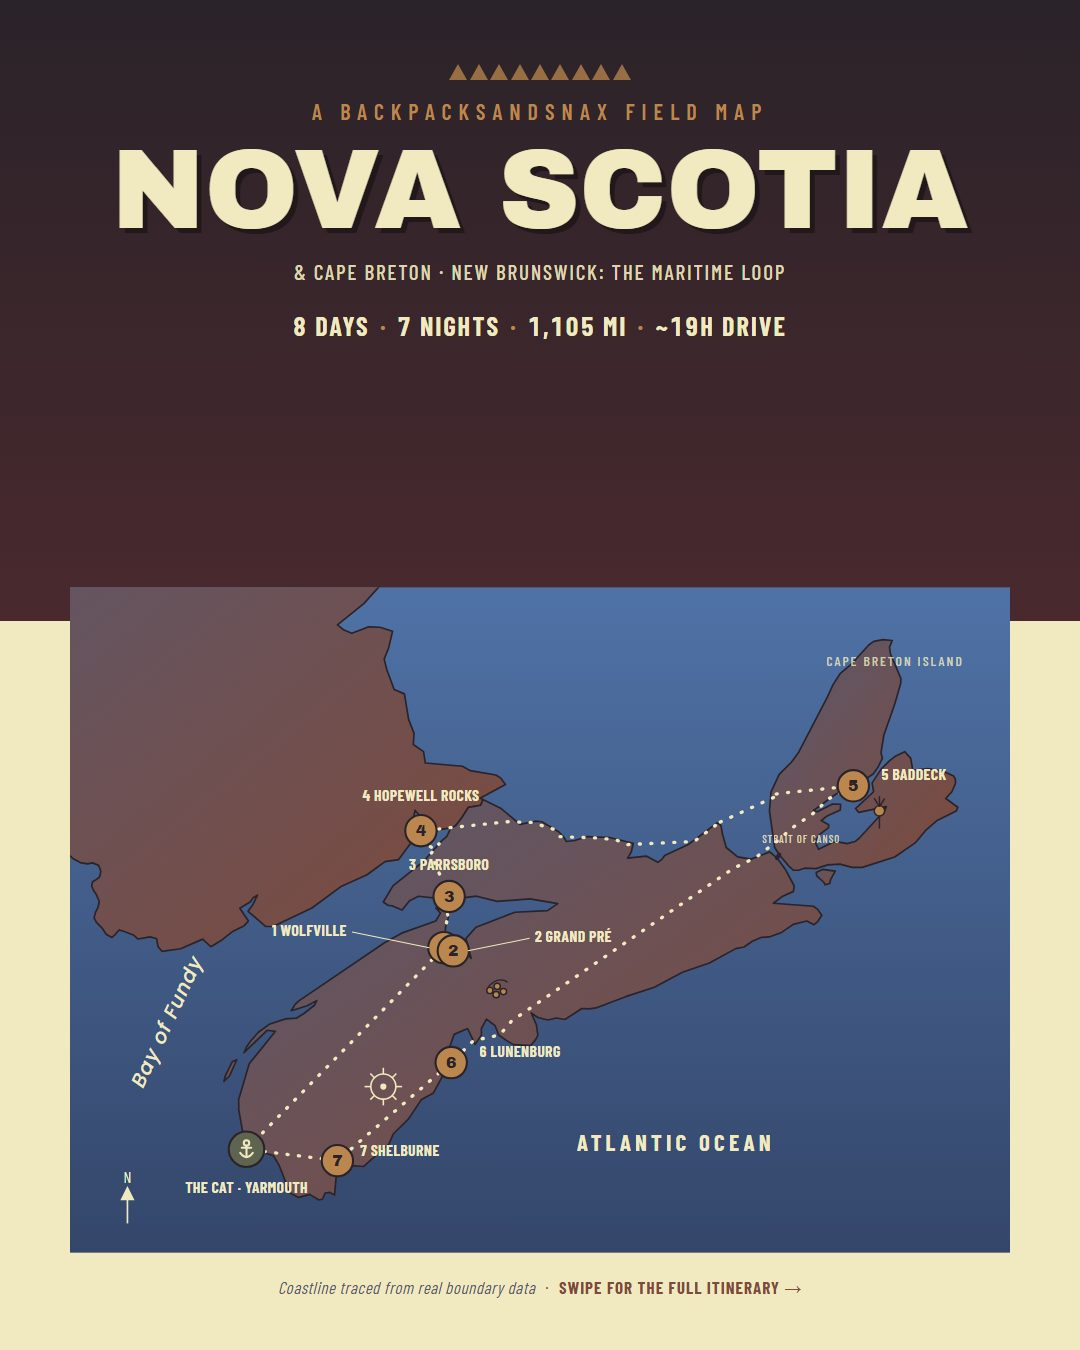
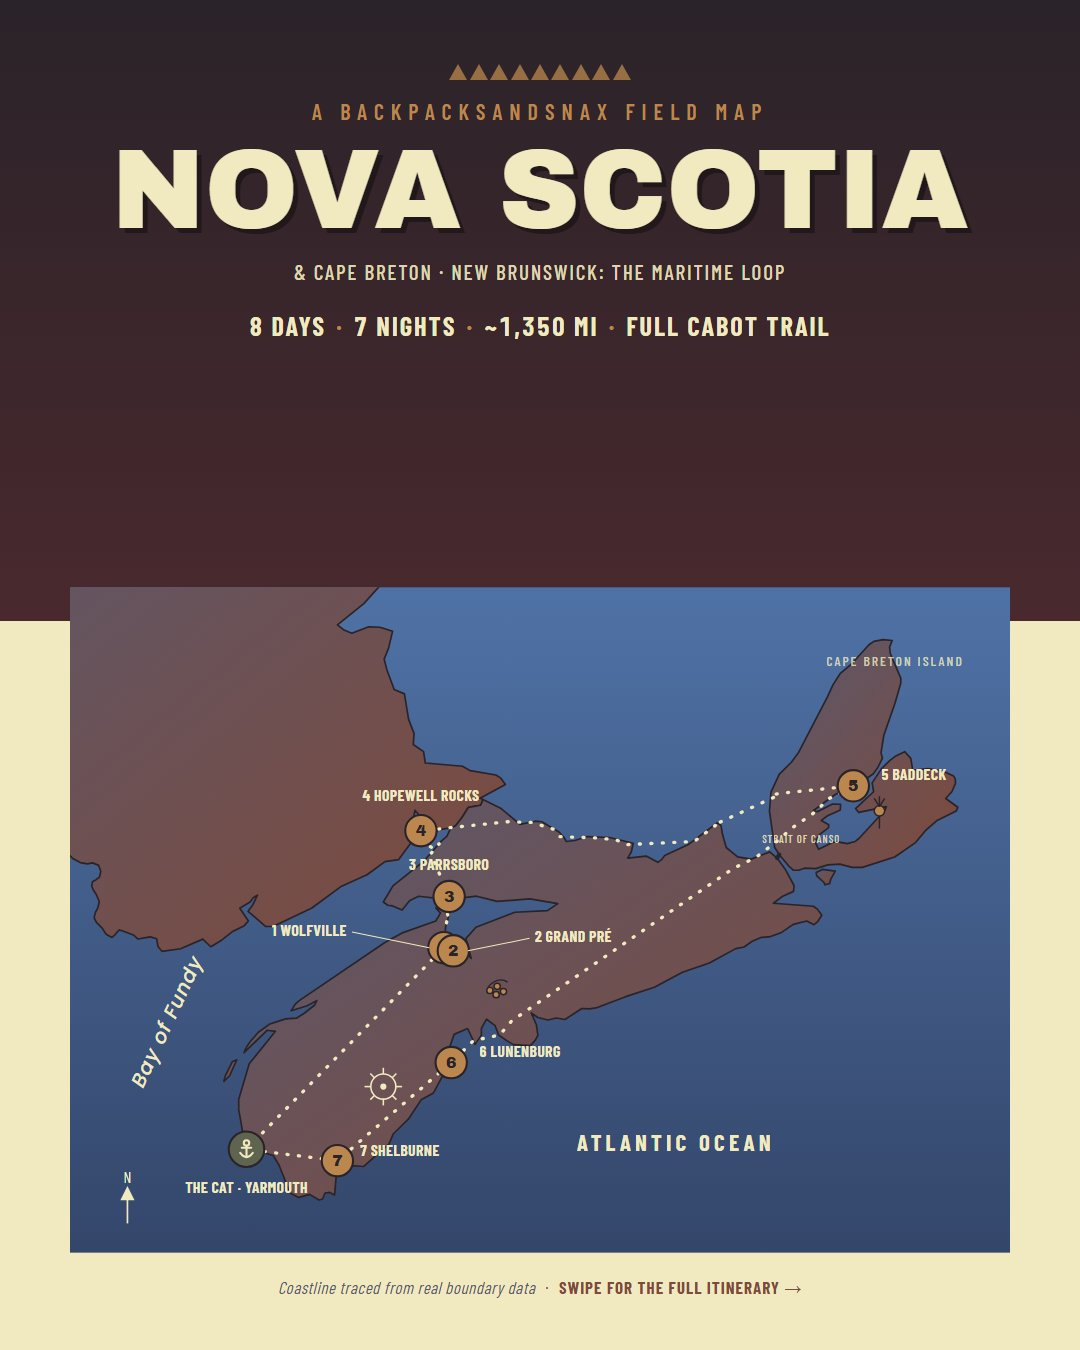
Maritime Loop: gluten-free layer, Evangeline and Blue Beach, offline note
- KML: Gluten-free eats folder (Luckett, The Cable Room), Evangeline Beach
  and Blue Beach photo pins, Peggy's Cove wave photo restored (Ben's call,
  LEG-060), offline note, route through both beaches (~1,350 mi)
- Shop page: Day 2 and Day 5 gluten-free and fossil notes, offline tip,
  new totals; hero field map re-rendered with the new totals
- Tier 2 check: OPSEC pass; legal publish with changes (LEG-063/064/065 applied)

Changed region(s): [[0.2139, 0.2178, 0.7639, 0.2489]]

diff --git a/maritime-loop.html b/maritime-loop.html
@@ -10,7 +10,7 @@
 <link rel="canonical" href="https://backpacksandsnax.shop/maritime-loop.html">
 <meta property="og:type" content="article">
 <meta property="og:title" content="The Maritime Loop: free trip map">
-<meta property="og:description" content="8 days, 7 nights, about 1,340 miles through Nova Scotia, Cape Breton, and New Brunswick, including the full Cabot Trail loop. Free live map, day-by-day plan, and our photos.">
+<meta property="og:description" content="8 days, 7 nights, about 1,350 miles through Nova Scotia, Cape Breton, and New Brunswick, including the full Cabot Trail loop. Free live map, day-by-day plan, and our photos.">
 <meta property="og:url" content="https://backpacksandsnax.shop/maritime-loop.html">
 <meta property="og:image" content="https://backpacksandsnax.shop/img/maritime-loop/slide-1-hero.jpg">
 <meta name="theme-color" content="#2A2329">
@@ -35,13 +35,13 @@
     <div>
       <p class="eyebrow">Free trip map</p>
       <h1>The Maritime Loop</h1>
-      <p class="stats">8 days &middot; 7 nights &middot; ~1,340 mi of driving</p>
+      <p class="stats">8 days &middot; 7 nights &middot; ~1,350 mi of driving</p>
       <p>Nova Scotia, Cape Breton, and a corner of New Brunswick, starting and ending at the Yarmouth ferry. Wine country, the highest tides on Earth, the full Cabot Trail loop, Peggy's Cove, and a UNESCO-listed harbor town, with every stop, stay, and drive we actually did.</p>
       <div class="buttons">
         <a class="btn btn-solid" href="/map/maritime-loop/">Open the live map</a>
         <a class="btn btn-line" href="img/maritime-loop/slide-1-hero.jpg" download="Backpacks-and-Snax-Maritime-Loop-field-map.jpg">Download the field map</a>
       </div>
-      <p class="fine">Free, no signup. The live map opens in Google Maps, where you can save it to your own account and use it for directions on the road. Prefer another app? <a href="/map/maritime-loop/route.kml" download="Backpacks-and-Snax-Maritime-Loop.kml">Download the route as KML</a> for Google Earth, Gaia GPS, OsmAnd, and most map apps.</p>
+      <p class="fine">Free, no signup. The live map opens in Google Maps, where you can save it to your own account and use it for directions on the road. Prefer another app? <a href="/map/maritime-loop/route.kml" download="Backpacks-and-Snax-Maritime-Loop.kml">Download the route as KML</a> for Google Earth, Gaia GPS, OsmAnd, and most map apps. Going offline? Google Maps doesn't show this map offline, and cell service is patchy on the Cabot Trail, so load the KML into an offline app like Organic Maps, OsmAnd, or Gaia GPS before you go (photos in the pins need a connection).</p>
       <p class="fine">Free for your own trip planning. Print it, save it, and share the link. Please don't resell it or repost the map as your own. Field map coastline: Natural Earth (public domain). Route line and pin locations in the KML download: &copy; <a href="https://www.openstreetmap.org/copyright">OpenStreetMap contributors</a> (ODbL). Photos on the map and in the KML are ours.</p>
     </div>
   </div>
@@ -61,7 +61,7 @@
     <div class="wrap">
       <p class="eyebrow">Day by day</p>
       <h2>The route</h2>
-      <p class="intro">Hotels are where we stayed, not sponsors. Drive times are rough, without stops.</p>
+      <p class="intro">Hotels and restaurants are where we stayed and ate, not sponsors. Drive times are rough, without stops. Gluten-free notes are our own experience in July 2025, not a certification, so tell your server about celiac and confirm how they prepare your food.</p>
       <ol class="days">
         <li class="day">
           <span class="when">Day 1</span>
@@ -77,7 +77,7 @@
           <div>
             <h3>Grand Pré wine country, then Parrsboro</h3>
             <p class="stay">Stay: Gillespie House Inn, Parrsboro (2 nights)</p>
-            <p>Morning at the Wolfville Farmers' Market if it's running. Then Luckett Vineyards (the red phone booth), Tangled Garden, and Domaine de Grand Pré. Also close by: Blue Beach, Benjamin Bridge, Lightfoot &amp; Wolfville.</p>
+            <p>Morning at the Wolfville Farmers' Market if it's running, then low tide at Evangeline Beach with Cape Blomidon across the water (check the tide, it comes back fast across the flats). Then Luckett Vineyards (the red phone booth), where we found really tasty gluten-free food, though as far as we know the kitchen isn't a dedicated gluten-free facility. Then Blue Beach, with fossils all through the shale cliffs: look, take photos, and leave the fossils where they are (Nova Scotia protects fossil sites, and disturbing or removing fossils can require a Heritage Research Permit), and stay back from the cliff base. Also close by: Tangled Garden, Domaine de Grand Pré, Benjamin Bridge, and Lightfoot &amp; Wolfville.</p>
             <span class="drive">Drive ~2 hrs 30 min</span>
           </div>
         </li>
@@ -104,7 +104,7 @@
           <div>
             <h3>The Cabot Trail</h3>
             <p class="stay">Stay: The Telegraph House, Baddeck</p>
-            <p>The big one: the whole loop, clockwise from Baddeck through Margaree, Chéticamp, Pleasant Bay, Cape North, and Ingonish, then around St. Ann's Bay and back to Baddeck. Along the way: the Skyline Trail boardwalk, ice cream at Mr. Chicken in Chéticamp, and Ingonish Beach. Dinner back at the Telegraph House's Cable Room. Fill up before the Highlands, expect patchy cell service, and watch for moose at dusk. No drones: Parks Canada doesn't allow recreational drone flying in national parks.</p>
+            <p>The big one: the whole loop, clockwise from Baddeck through Margaree, Chéticamp, Pleasant Bay, Cape North, and Ingonish, then around St. Ann's Bay and back to Baddeck. Along the way: the Skyline Trail boardwalk, ice cream at Mr. Chicken in Chéticamp, and Ingonish Beach. Dinner back at the Telegraph House's Cable Room, where staff told us the kitchen is dedicated gluten-free and they knew celiac disease well. Fill up before the Highlands, expect patchy cell service, and watch for moose at dusk. No drones: Parks Canada doesn't allow recreational drone flying in national parks.</p>
             <span class="drive">About 185 mi, a full day</span>
           </div>
         </li>
